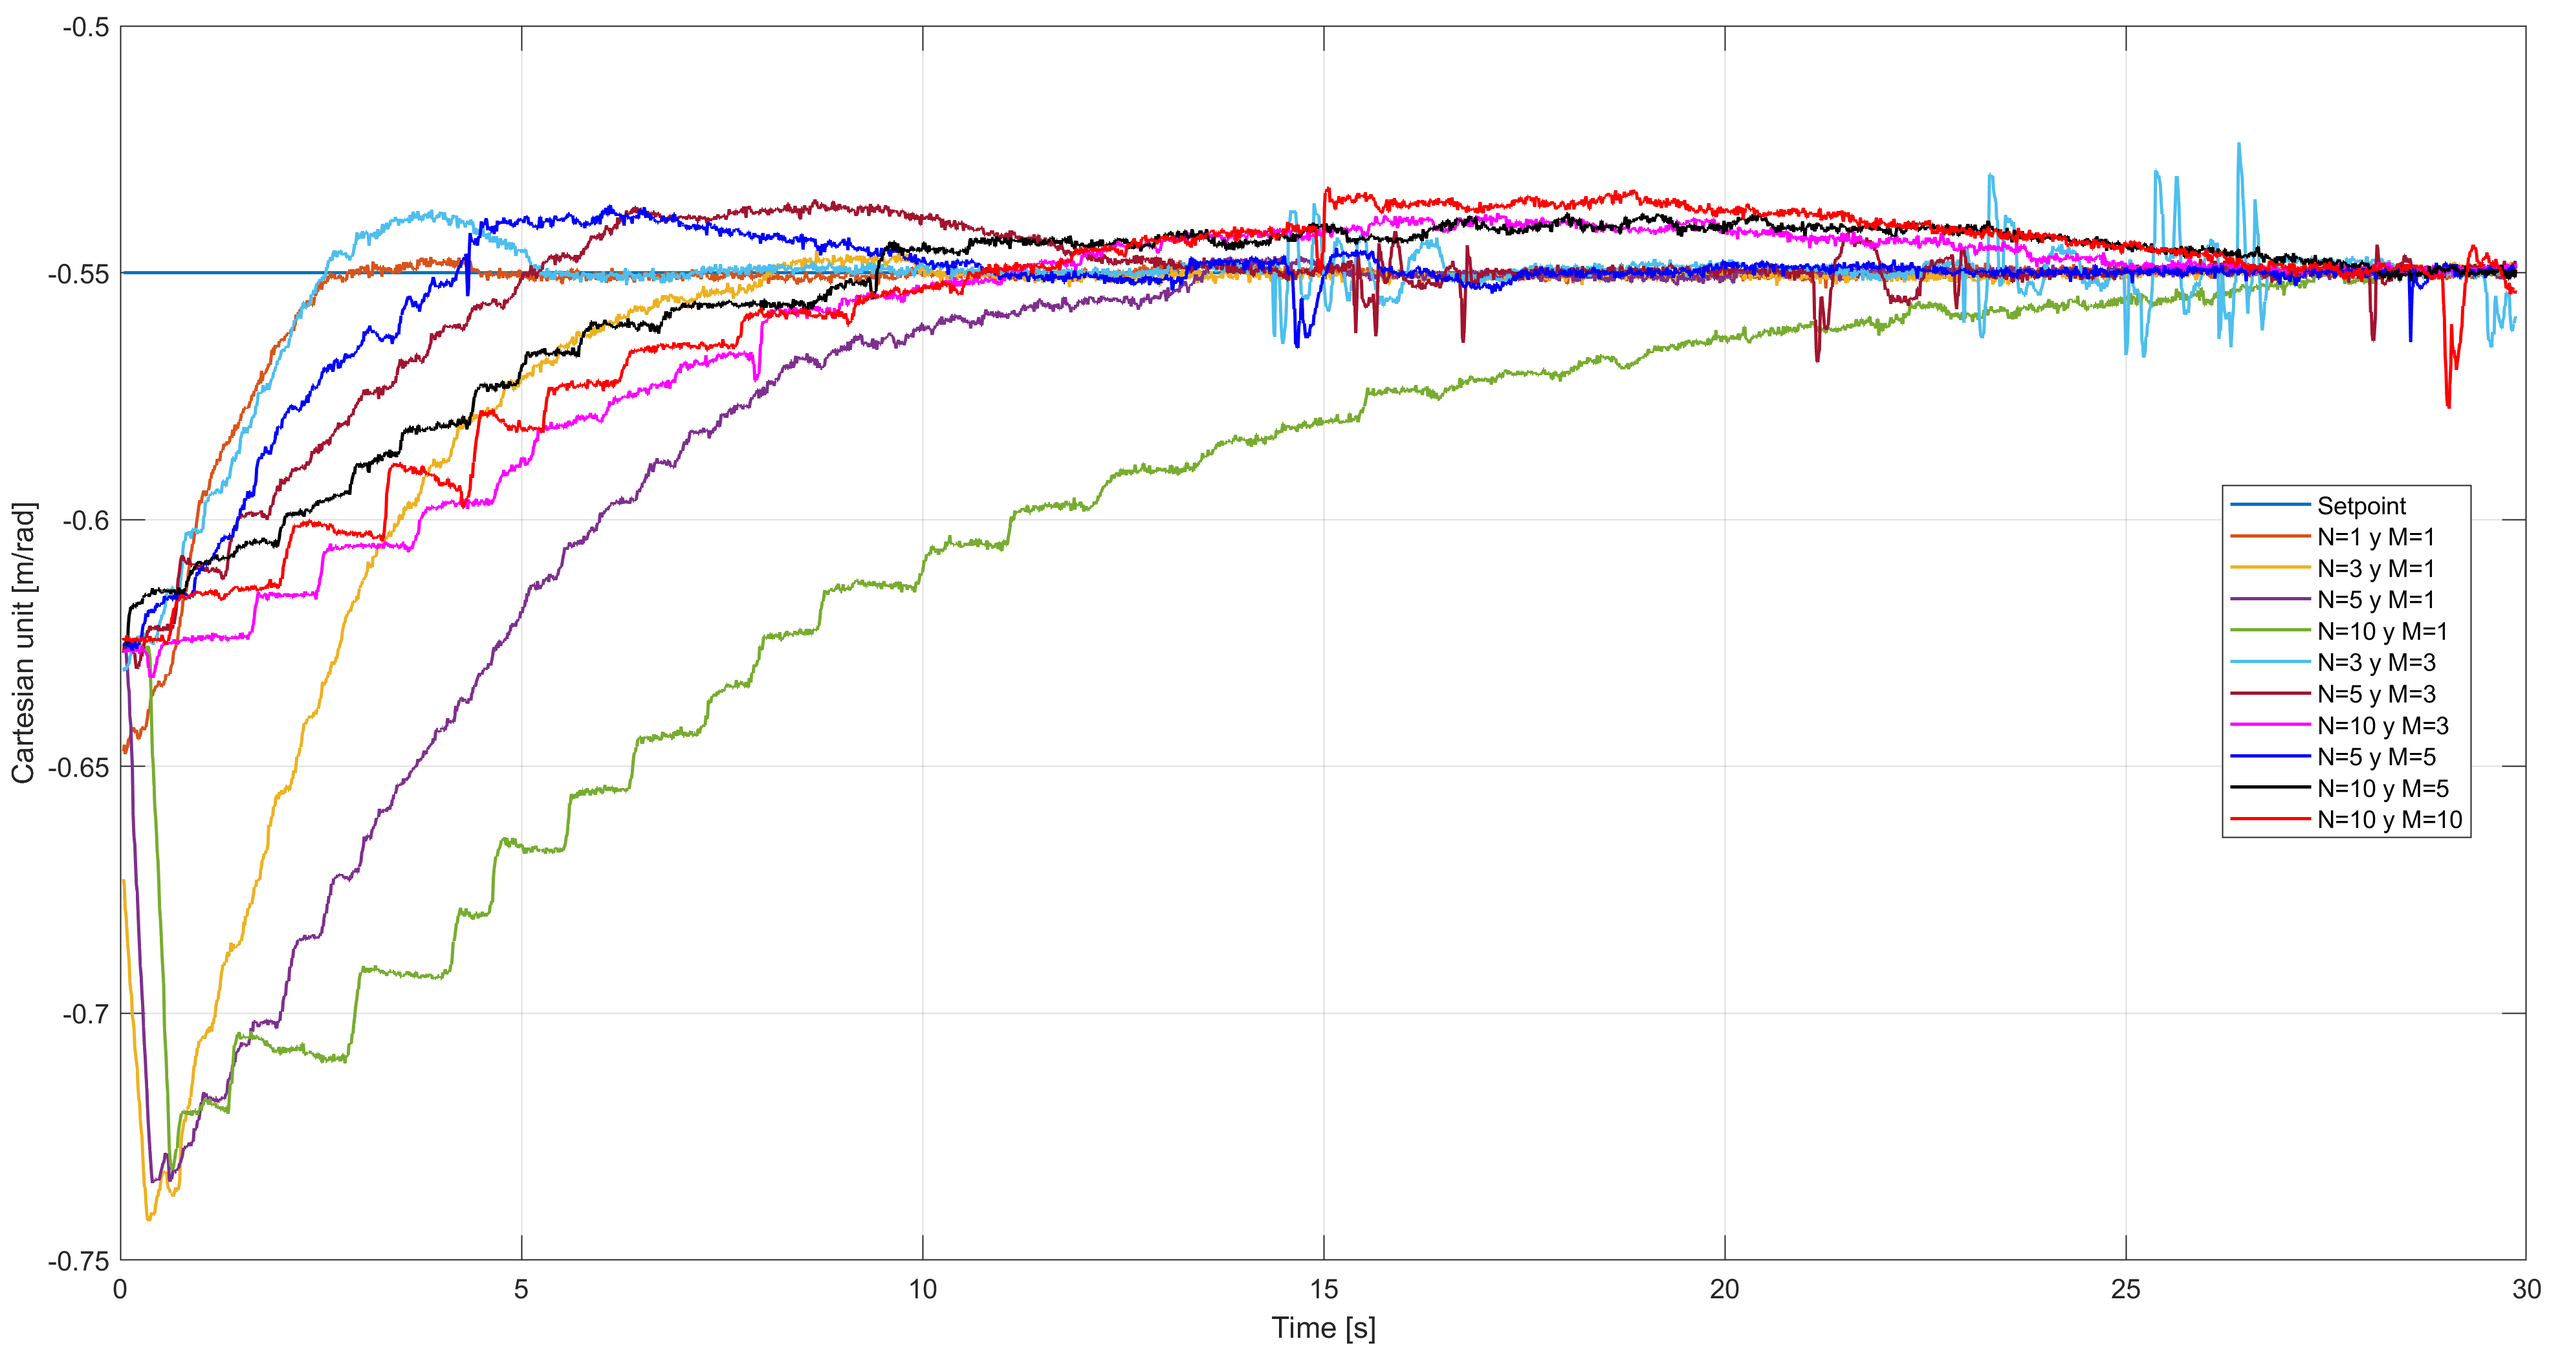
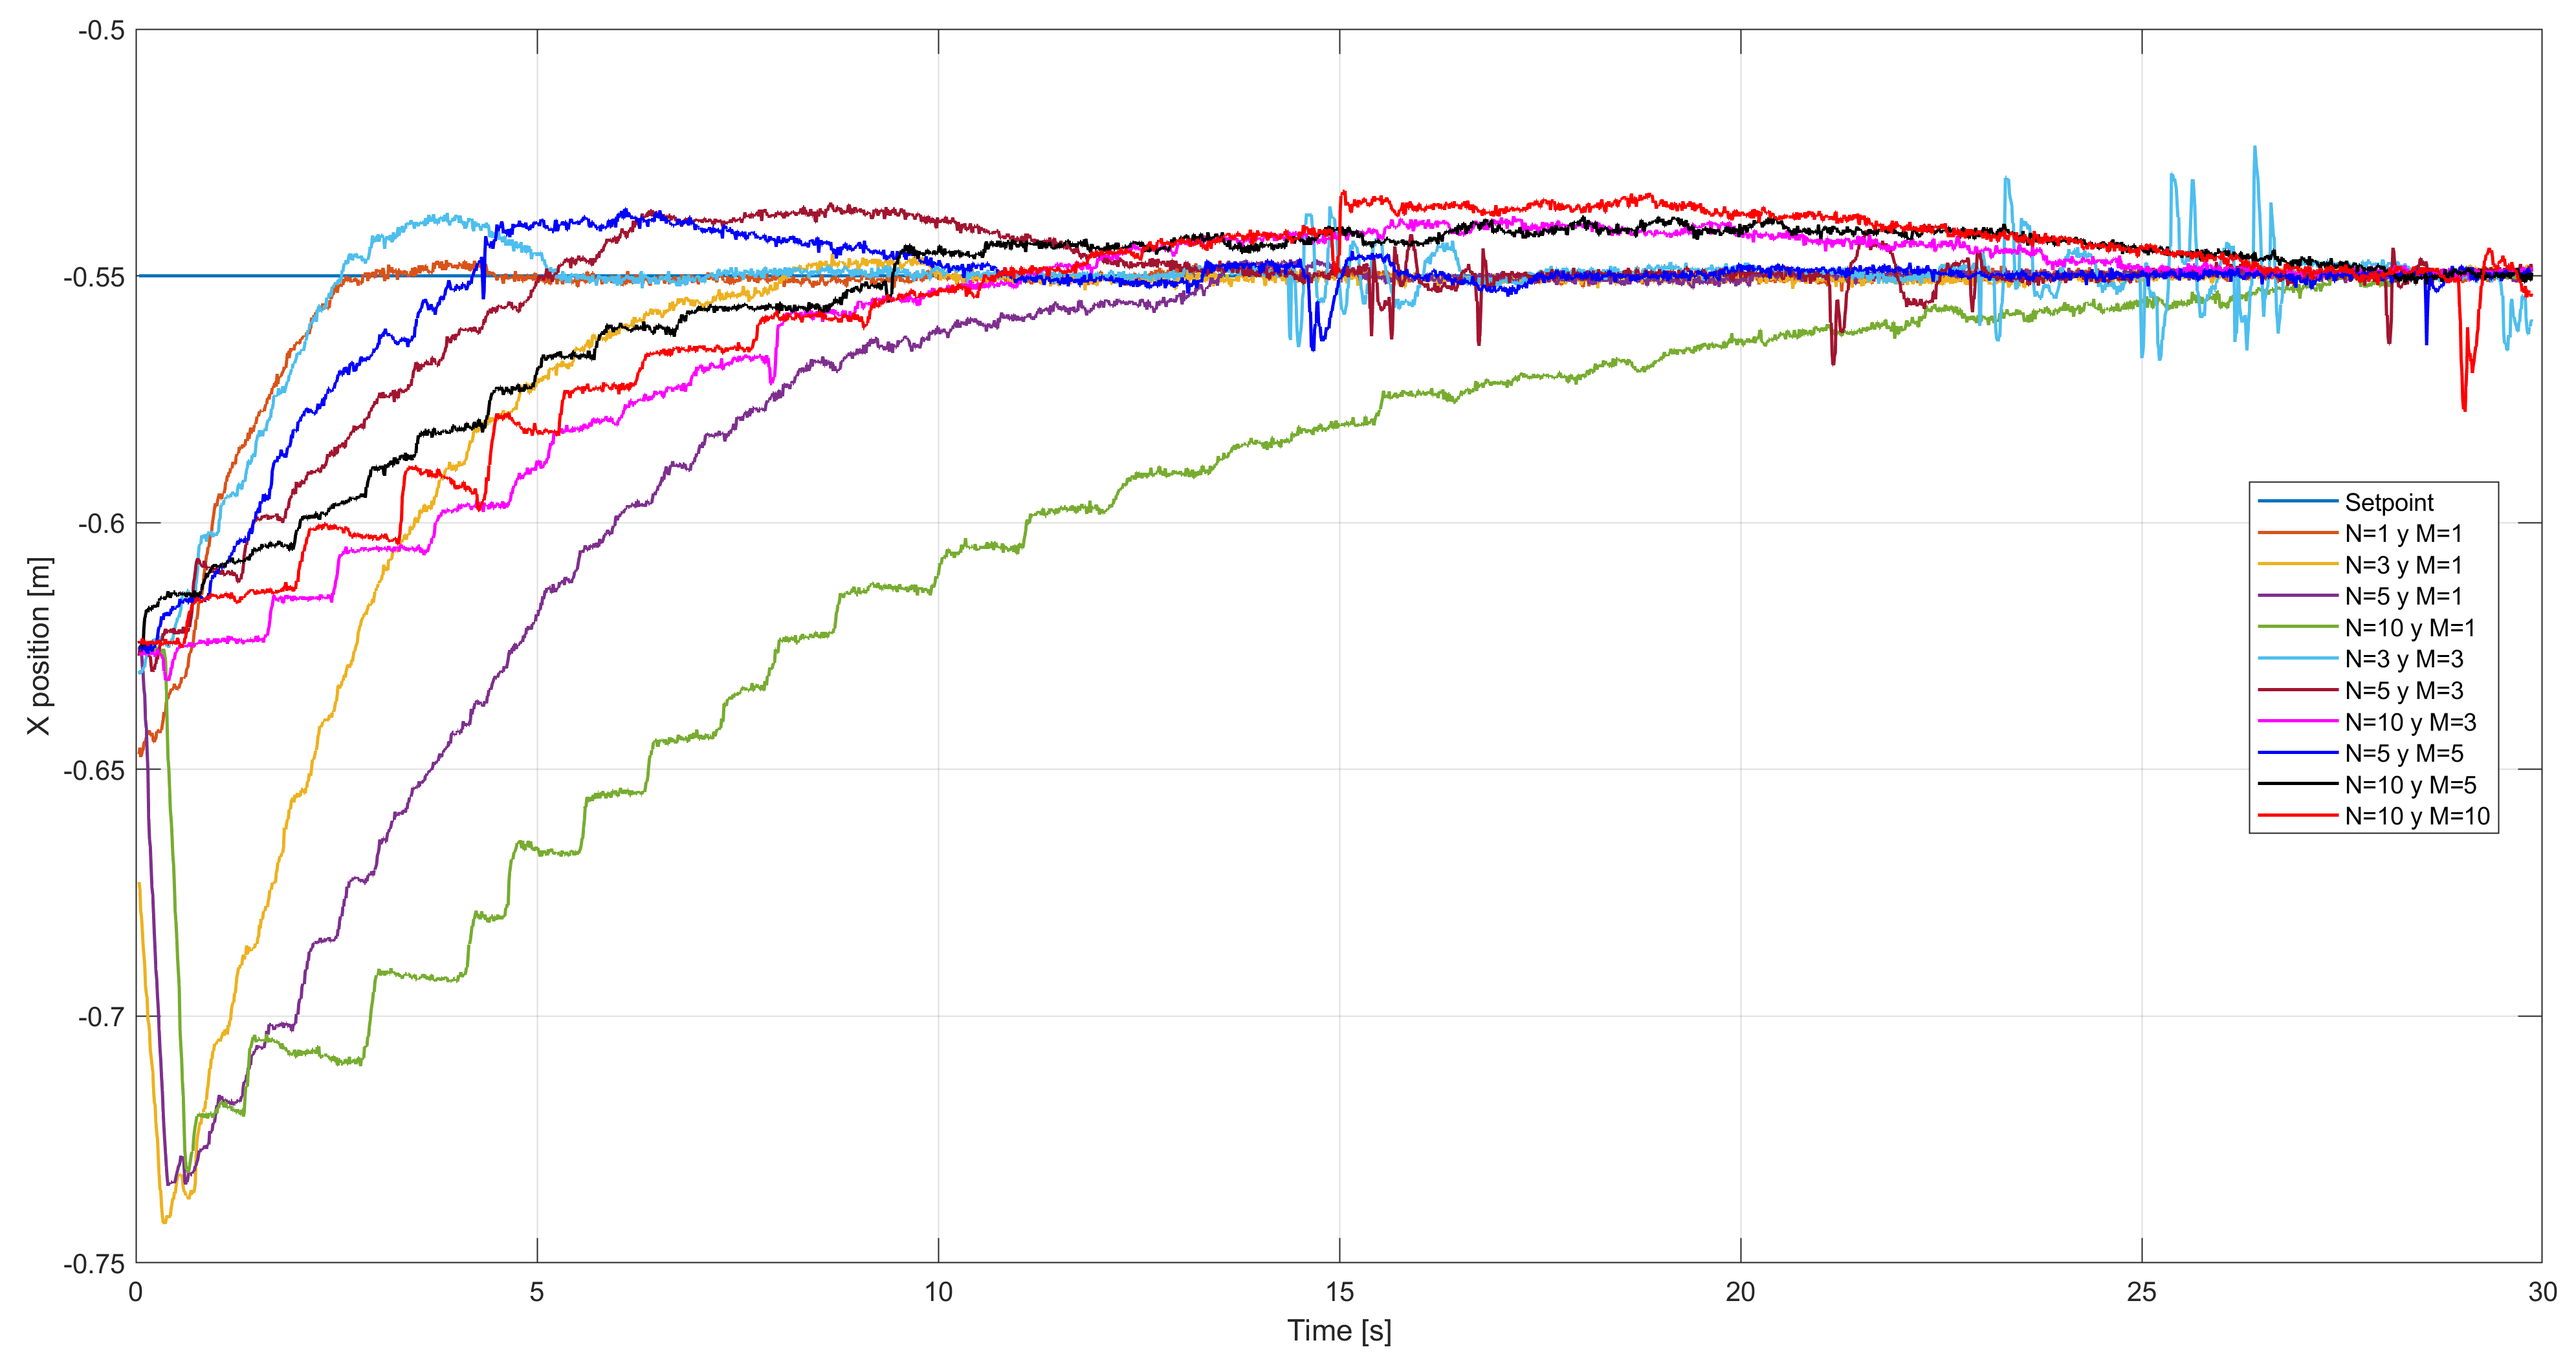
Update control_theory with PID plots and initial comparisson

diff --git a/tesis_article.tex b/tesis_article.tex
@@ -1998,7 +1998,8 @@ The software implementation of the FPK algorithm for this research project can b
 \end{itemize}
 
 
-\subsection{Baxter Inverse Pose Kinematics}
+\subsection{Baxter Inverse Pose Kinematics} 
+\label{sub_sec_ipk}
 
 The goal of the IPK for Baxter, is to determine the current angles of each one of the degrees of freedom, based on the Cartesian position and orientation of the end effector. To solve this problem, we can proceed to derive a general expression based on an analytical solution.\\
 
@@ -3268,6 +3269,59 @@ For Baxter Bon Appetit, the source code for this control strategy can be found a
     \item \href{https://github.com/san99tiago/baxter-bon-appetit/blob/main/python/baxter_bon_appetit/scripts/node_open_loop_control_trajectory.py}{Baxter Bon Appetit mouth tracking approach based on PID and IPK algorithms}
 \end{itemize}
 
+\subsection{PID results}
+To analyze how is the behavior of the system with the control structure shown in fig[\ref{fig_baxter_ipk_pid_controller}], a experiment was designed in which the main task was to move Baxter's right arm to a specific constant location in space, so that the step response of the overall system could be analysed afterwards. The results are the following:
+
+\begin{figure}[H]
+    \centering
+    \includegraphics[width=1.0\linewidth]{assets/imgs/control_theory/pid_tests/x_pose.png}
+    \caption{Baxter's end-effector x position during the experiment with the mouth tracking solution using IPK and PID.} 
+    \label{fig_baxter_x_pose_pid_experiments}
+\end{figure}
+
+\begin{figure}[H]
+    \centering
+    \includegraphics[width=1.0\linewidth]{assets/imgs/control_theory/pid_tests/y_pose.png}
+    \caption{Baxter's end-effector y position during the experiment with the mouth tracking solution using IPK and PID.} 
+    \label{fig_baxter_y_pose_pid_experiments}
+\end{figure}
+
+\begin{figure}[H]
+    \centering
+    \includegraphics[width=1.0\linewidth]{assets/imgs/control_theory/pid_tests/z_pose.png}
+    \caption{Baxter's end-effector z position during the experiment with the mouth tracking solution using IPK and PID.} 
+    \label{fig_baxter_z_pose_pid_experiments}
+\end{figure}
+
+\begin{figure}[H]
+    \centering
+    \includegraphics[width=1.0\linewidth]{assets/imgs/control_theory/pid_tests/x_orientation.png}
+    \caption{Baxter's end-effector x orientation during the experiment with the mouth tracking solution using IPK and PID.} 
+    \label{fig_baxter_x_orientation_pid_experiments}
+\end{figure}
+
+\begin{figure}[H]
+    \centering
+    \includegraphics[width=1.0\linewidth]{assets/imgs/control_theory/pid_tests/y_orientation.png}
+    \caption{Baxter's end-effector y orientation during the experiment with the mouth tracking solution using IPK and PID.} 
+    \label{fig_baxter_y_orientation_pid_experiments}
+\end{figure}
+
+\begin{figure}[H]
+    \centering
+    \includegraphics[width=1.0\linewidth]{assets/imgs/control_theory/pid_tests/z_orientation.png}
+    \caption{Baxter's end-effector z orientation during the experiment with the mouth tracking solution using IPK and PID.} 
+    \label{fig_baxter_z_orientation_pid_experiments}
+\end{figure}
+
+
+After the results of the experiment were analyzed, some interesting insights were found:
+\begin{itemize}
+    \item As seen in figs[\ref{fig_baxter_x_pose_pid_experiments}, \ref{fig_baxter_y_pose_pid_experiments}], the time response of the system has a significant steady state error due to the mathematical simplifications of the 6 DOF IPK, explained in sec[\ref{sub_sec_ipk}]  
+    \item The Cartesian orientation has relevant changes and even high-slope segments that are undesired for the feeding task. 
+\end{itemize}
+
+
 \section{MPC Control Strategy}
 
 In its beginnings the MPC (Model Predictive Control) was designed to be implemented in applications where the control of chemical processes was required \citep{cite_model_predictive_control_theory_and_practice}. This control strategy was also widely used for the control of aerial vehicles due to its high performance \citep{cite_receding_horizon_control_aerial_vehicles}. In recent years, the MPC has been strongly introduced and implemented in the vast world of robotics, with this novel control strategy, problems such as trajectory planning, compensation of the inertial forces of a manipulator and the approach in a three-dimensional space to a target, have been able to find solutions with a more efficient and optimal point of view. \\
@@ -3487,18 +3541,90 @@ The experiments were developed with the following combinations of N and M:
 \end{center}
 \end{table}
 
-During the experiments, the main variables of the system (Joints of the robot and the Cartesian location and orientation of the end-effector) were monitored constantly. The collected data of the experiments will be shown in the following plots.\\
+During the experiments, the main variables of the system (Joints of the robot and the Cartesian location and orientation of the end-effector) were monitored constantly. The collected data of the Cartesian coordinates taken at the experiments will be shown in the following plots.\\
 
 \begin{figure}[H]
     \centering
-    \includegraphics[width=0.5\linewidth]{assets/imgs/control_theory/mpc_tests/s0.png}
-    \caption{Baxter's s0 joint behavior during the MPC experiments.} 
-    \label{fig_baxter_s0_mpc_experiments}
+    \includegraphics[width=1.0\linewidth]{assets/imgs/control_theory/mpc_tests/x_pose.png}
+    \caption{Baxter's end-effector x position during the MPC experiments.} 
+    \label{fig_baxter_x_pose_mpc_experiments}
+\end{figure}
+
+\begin{figure}[H]
+    \centering
+    \includegraphics[width=1.0\linewidth]{assets/imgs/control_theory/mpc_tests/y_pose.png}
+    \caption{Baxter's end-effector y position during the MPC experiments.} 
+    \label{fig_baxter_y_pose_mpc_experiments}
+\end{figure}
+
+\begin{figure}[H]
+    \centering
+    \includegraphics[width=1.0\linewidth]{assets/imgs/control_theory/mpc_tests/z_pose.png}
+    \caption{Baxter's end-effector z position during the MPC experiments.} 
+    \label{fig_baxter_z_pose_mpc_experiments}
+\end{figure}
+
+\begin{figure}[H]
+    \centering
+    \includegraphics[width=1.0\linewidth]{assets/imgs/control_theory/mpc_tests/x_orientation.png}
+    \caption{Baxter's end-effector x orientation during the MPC experiments.} 
+    \label{fig_baxter_x_orientation_mpc_experiments}
+\end{figure}
+
+\begin{figure}[H]
+    \centering
+    \includegraphics[width=1.0\linewidth]{assets/imgs/control_theory/mpc_tests/y_orientation.png}
+    \caption{Baxter's end-effector y orientation during the MPC experiments.} 
+    \label{fig_baxter_y_orientation_mpc_experiments}
+\end{figure}
+
+\begin{figure}[H]
+    \centering
+    \includegraphics[width=1.0\linewidth]{assets/imgs/control_theory/mpc_tests/z_orientation.png}
+    \caption{Baxter's end-effector z orientation during the MPC experiments.} 
+    \label{fig_baxter_z_orientation_mpc_experiments}
 \end{figure}
 
 
+After analysing all the possible configurations of the MPC controller implemented in the experiments, the best performance of the system was achieved with the values of $N = 1$ and $M = 1$. Some of the reasons for selecting this combination of the MPC parameters are:
+
+\begin{itemize}
+    \item The rise time and the settling time were smallest ones compared to the other combinations.
+    \item Time response has the smoothest behavior, making the movements of the end-effector optimal accurate for the task of feeding.
+    \item As seen in figs[\ref{fig_baxter_x_orientation_mpc_experiments}, \ref{fig_baxter_y_orientation_mpc_experiments}, \ref{fig_baxter_z_orientation_mpc_experiments}] this controller has the steadiest behavior for the end-effector's orientation.
+\end{itemize}
+
+Further more, the experiments revealed some additional valuable information about the MPC. The step-wise behavior seen in some combinations such as the one that involves $N = 10$ and $M = 1$, indicate that computational resources are close to their performance limits and due to this, the horizontal parts of the step-wise response are a consequence of the processing time needed to compute these algorithms. \\
+
 
 \section{PID vs MPC Strategies Results Discussion}
+
+For Baxter Bon Appetit project, it is important to choose the best control strategy based on tangible conclusions that aim to execute the feeding task as save and smooth as possible. \\
+
+The previous sections showed the process of development of two control strategies (IPK and PID based controller, MPC controller). Although both approaches had great general results, it is crucial to distinguish which one satisfies better the project requirements. \\
+
+
+
+
+
+
+
+
+
+
+
+
+
+
+
+
+
+
+
+
+
+
+
 
 % ---------------------------------------------------------
 \chapter{ROS Integration}
